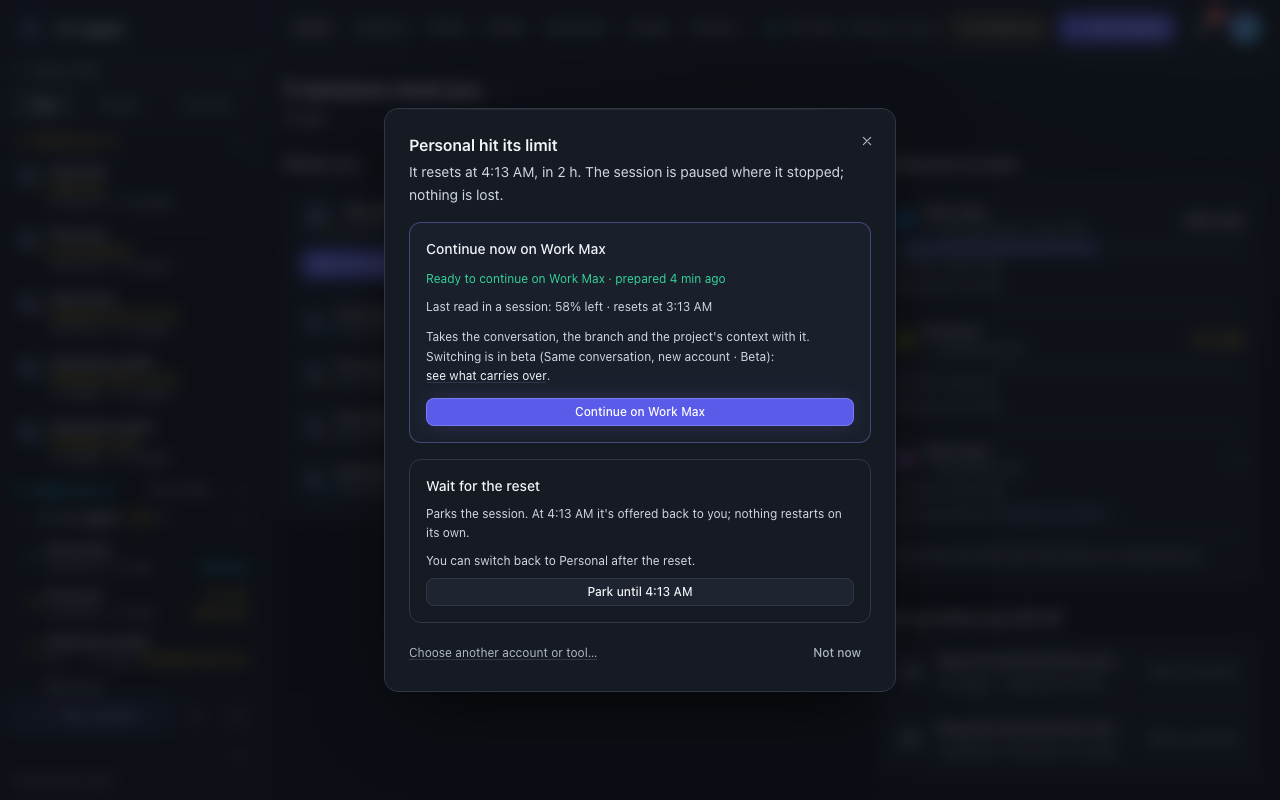
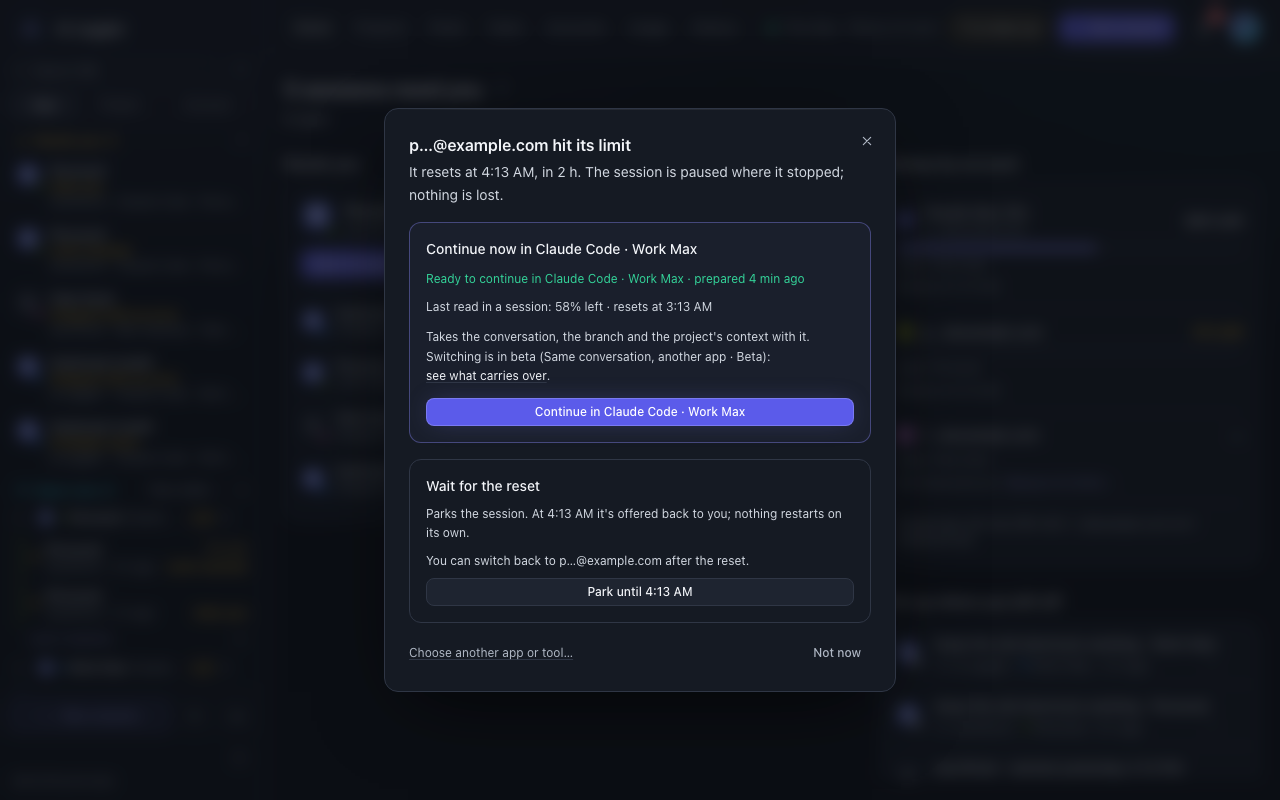
fix(e32): the limit dialog continues in the App by its full name
"Continue in Claude Code · Work Max", not "Continue on Work Max"; the
gallery re-shot and its critique updated.

diff --git a/ui/src/components/LimitDialog.tsx b/ui/src/components/LimitDialog.tsx
@@ -29,6 +29,7 @@ import { SuggestedMark } from "./SwitchTargetRows";
 import { IconClose } from "./icons-controls";
 import { resetsWords, whenWords } from "../lib/time-words";
 import { creditsConsequence, usingCreditsWords } from "../lib/credits";
+import { folderAppName } from "../lib/app-name";
 
 function inWords(ms: number): string {
   const minutes = Math.max(0, Math.round(ms / 60_000));
@@ -209,12 +210,12 @@ export function LimitDialog({
               ) : target ? (
                 <>
                   <div className="flex flex-wrap items-center gap-2">
-                    <span className="text-sm font-medium">Continue now on {target.account_label}</span>
+                    <span className="text-sm font-medium">Continue now in {folderAppName(target.account_id, target.account_label)}</span>
                     {target.suggested && <SuggestedMark />}
                   </div>
                   {ready && (
                     <p className="text-xs text-success" data-testid="limit-ready">
-                      Ready to continue on {target.account_label} · prepared {ago(now - ready.prepared_at_ms)}
+                      Ready to continue in {folderAppName(target.account_id, target.account_label)} · prepared {ago(now - ready.prepared_at_ms)}
                     </p>
                   )}
                   {target.room.kind === "credits" && target.room.credits && (
@@ -245,7 +246,7 @@ export function LimitDialog({
                     </p>
                   )}
                   <Button size="sm" variant="primary" data-autofocus onClick={() => onContinue(target)}>
-                    Continue on {target.account_label}
+                    Continue in {folderAppName(target.account_id, target.account_label)}
                   </Button>
                 </>
               ) : (

diff --git a/ui/src/components/limit-dialog.test.tsx b/ui/src/components/limit-dialog.test.tsx
@@ -88,7 +88,7 @@ describe("D-25 limit decision — the dialog", () => {
     expect(dialog.textContent).toContain(`It ${resetsWords(reset, NOW)}, in 2 h 10 min.`);
     expect(dialog.textContent).toContain(`At ${whenWords(reset, NOW)} it's offered back to you`);
     expect(within(getByTestId("limit-wait")).getByRole("button", { name: `Park until ${whenWords(reset, NOW)}` })).toBeTruthy();
-    fireEvent.click(await findByRole("button", { name: "Continue on Personal" }));
+    fireEvent.click(await findByRole("button", { name: "Continue in Personal" }));
     expect(onContinue).toHaveBeenCalledWith(expect.objectContaining({ recipe_id: "r-acct-personal" }));
     expect(w().__AIJ_PARK_CALLS__).toBeUndefined();
   });
@@ -104,7 +104,7 @@ describe("D-25 limit decision — the dialog", () => {
       fidelity_words: "Full story",
     };
     const { findByTestId } = renderIt();
-    expect((await findByTestId("limit-ready")).textContent).toBe("Ready to continue on Personal · prepared 3 min ago");
+    expect((await findByTestId("limit-ready")).textContent).toBe("Ready to continue in Personal · prepared 3 min ago");
   });
 
   it("says nothing about a prepared switch for another account", async () => {
@@ -118,7 +118,7 @@ describe("D-25 limit decision — the dialog", () => {
       fidelity_words: "Full story",
     };
     const { findByRole, queryByTestId } = renderIt();
-    await findByRole("button", { name: "Continue on Personal" });
+    await findByRole("button", { name: "Continue in Personal" });
     expect(queryByTestId("limit-ready")).toBeNull();
   });
 

diff --git a/ui/tests/visual/limit-ready.spec.ts b/ui/tests/visual/limit-ready.spec.ts
@@ -1,6 +1,6 @@
 /**
  * AJ-E1513 gallery: the limit dialog when the switch was prepared before
- * the limit — "Ready to continue on Work Max · prepared 4 min ago" under
+ * the limit — "Ready to continue in Claude Code · Work Max · prepared 4 min ago" under
  * the pick. Both themes; axe 0 critical/serious on each.
  */
 import AxeBuilder from "@axe-core/playwright";
@@ -47,8 +47,8 @@ for (const theme of ["dark", "light"] as const) {
     await open(page, theme);
     await page.getByTestId("home-needs").getByRole("button", { name: /^Continue elsewhere/ }).first().click();
     const dialog = page.getByTestId("limit-dialog");
-    await expect(dialog.getByTestId("limit-ready")).toHaveText("Ready to continue on Work Max · prepared 4 min ago");
-    await expect(dialog.getByRole("button", { name: "Continue on Work Max" })).toBeVisible();
+    await expect(dialog.getByTestId("limit-ready")).toHaveText(/^Ready to continue in (Claude Code · )?Work Max · prepared 4 min ago$/);
+    await expect(dialog.getByRole("button", { name: /^Continue in (Claude Code · )?Work Max$/ })).toBeVisible();
     await page.mouse.move(0, 0);
     const results = await new AxeBuilder({ page }).analyze();
     const bad = results.violations.filter((v) => v.impact === "critical" || v.impact === "serious");

diff --git a/docs/qa/evidence/_gallery/89-limit-ready/critique.md b/docs/qa/evidence/_gallery/89-limit-ready/critique.md
@@ -1,11 +1,11 @@
-<!-- captures: 81164a1da6e0 -->
+<!-- captures: 1eb88ed0dd26 -->
 # 89-limit-ready: "Personal hit its limit", continue now on a ready account or wait for the reset
 
 Design critique (D-57, AJ-E2814). First critique of this family, written at the 0.3.2 re-render from its captures as they are now; updated after the 0.3.2 design passes.
 
 ## 0.3.2
 
-The dialog is two option cards: the recommended "Continue now on Work Max" has a violet outline and a full-width solid violet "Continue on Work Max", a clear single primary, and "Wait for the reset" has a full-width outlined "Park until 4:13 AM". The only change from the design fixes is in dark, where the recommended card's outline uses the lighter accent and separates it a little more clearly from the plain Wait card; the button fill is unchanged. It lifts well off the blurred page in both themes, the facts ("Last read in a session: 58% left · resets at 3:13 AM") sit a step dimmer than the heading, and nothing clips. The green "Ready to continue on Work Max · prepared 4 min ago" is small and, in light, a thin green on white that is the faintest line in the card though it is the reason to pick it. The copy still says beta twice in one sentence ("Switching is in beta (Same conversation, new account · Beta)"), and the footer pairs an underlined "Choose another account or tool…" with a plain "Not now". The second pass changed only a rail line in the blurred page behind the dialog; the dialog is unchanged.
+The dialog is two option cards: the recommended "Continue now in Claude Code · Work Max" (0.4: the App by its full name, "in" it) has a violet outline and a full-width solid violet "Continue in Claude Code · Work Max", a clear single primary, and "Wait for the reset" has a full-width outlined "Park until 4:13 AM". The only change from the design fixes is in dark, where the recommended card's outline uses the lighter accent and separates it a little more clearly from the plain Wait card; the button fill is unchanged. It lifts well off the blurred page in both themes, the facts ("Last read in a session: 58% left · resets at 3:13 AM") sit a step dimmer than the heading, and nothing clips. The green "Ready to continue in Claude Code · Work Max · prepared 4 min ago" is small and, in light, a thin green on white that is the faintest line in the card though it is the reason to pick it. The copy still says beta twice in one sentence ("Switching is in beta (Same conversation, another app · Beta)"), and the footer pairs an underlined "Choose another app or tool…" with a plain "Not now". The second pass changed only a rail line in the blurred page behind the dialog; the dialog is unchanged.
 
 ## Weak
 
